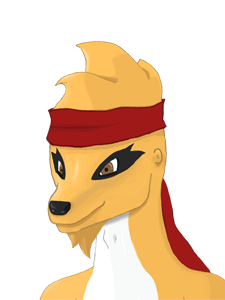
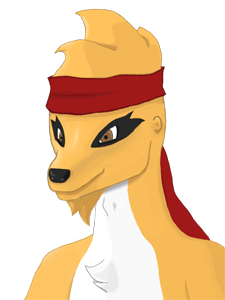
New Gameplay Feature And Updated The Meerkat Selector 1. Added The Possibility In Stand Double Jump Of Move To Any Side Without Collisions 2. Updated The Image Of The Meerkat In The Menu Of Selection Player

diff --git a/ModelingProject1/SourceCode/Characters/Character States/DoubleJumpState.cpp b/ModelingProject1/SourceCode/Characters/Character States/DoubleJumpState.cpp
@@ -27,3 +27,21 @@ int GameCoreStates::DoubleJumpState::checkMovement(int keyPreviouslyPressed, int
 
   return GameCoreStates::NO_CHANGE;
 }
+
+int GameCoreStates::DoubleJumpState::checkChangeOfState(std::list<InputMapping::Key> keys, int currentState,
+                           int previousState, GameCoreStates::PlayerState* newState,
+                           int keyPreviouslyPressed)
+{
+  GameCoreStates::ConditionsPlayerRunning isPacing = checkIfPlayerIsRunning(keys);
+
+  if ( currentState == GameCoreStates::DOUBLE_JUMP && isPacing.directionButtonPressed && !isPacing.runningButtonPressed)
+  {
+    return GameCoreStates::UPDATE_SPEEDX;
+  }
+
+  if ( currentState != previousState)
+  {
+    return GameCoreStates::CHANGE;
+  }
+  return GameCoreStates::NO_CHANGE;
+}

diff --git a/ModelingProject1/SourceCode/Characters/Character States/JumpingState.cpp b/ModelingProject1/SourceCode/Characters/Character States/JumpingState.cpp
@@ -45,9 +45,7 @@ int GameCoreStates::JumpingState::checkChangeOfState(std::list<InputMapping::Key
                            int previousState, GameCoreStates::PlayerState* newState,
                            int keyPreviouslyPressed)
 {
-  InputMapping::Key findKey = *std::find_if(keys.begin(), keys.end(), isJumpingKeyPressed);
   GameCoreStates::ConditionsPlayerRunning isPacing = checkIfPlayerIsRunning(keys);
-  bool jumpingButtonIsPressed = findKey.isPressed;
 
   if ( currentState == GameCoreStates::JUMPING && isPacing.directionButtonPressed && !isPacing.runningButtonPressed)
   {

diff --git a/ModelingProject1/SourceCode/Characters/Character States/FallingState.h b/ModelingProject1/SourceCode/Characters/Character States/FallingState.h
@@ -6,11 +6,11 @@ namespace GameCoreStates
 {
   class FallingState : public GameCoreStates::PlayerState
   {
-    public:
-     FallingState(int id);
-     ~FallingState(void);
+   public:
+    FallingState(int id);
+    ~FallingState(void);
 
-     int checkMovement(int keyPreviouslyPressed, int previousState, 
+    int checkMovement(int keyPreviouslyPressed, int previousState, 
                        int currentState, std::list<InputMapping::Key> keys);
   };
 }

diff --git a/ModelingProject1/SourceCode/Characters/Character States/PlayerState.cpp b/ModelingProject1/SourceCode/Characters/Character States/PlayerState.cpp
@@ -38,6 +38,13 @@ GameCoreStates::ConditionsPlayerRunning GameCoreStates::PlayerState::checkIfPlay
 
   GameCoreStates::ConditionsPlayerRunning isRunning;
 
+  if ( keys.empty() )
+  {
+    isRunning.directionButtonPressed = false;
+    isRunning.runningButtonPressed = false;
+    return isRunning;
+  }
+
   InputMapping::Key findKey = *std::find_if(keys.begin(), keys.end(), isWalkingKeyRightPressed);
   directionButtonRightPressed = findKey.isPressed;
 

diff --git a/ModelingProject1/SourceCode/Characters/Character States/DoubleJumpState.h b/ModelingProject1/SourceCode/Characters/Character States/DoubleJumpState.h
@@ -12,5 +12,8 @@ namespace GameCoreStates
 
     int checkMovement(int keyPreviouslyPressed, int previousState, 
                       int currentState, std::list<InputMapping::Key> keys);
+    int checkChangeOfState(std::list<InputMapping::Key> keys, int currentState,
+                           int previousState, GameCoreStates::PlayerState* newState,
+                           int keyPreviouslyPressed);
   };
 }
